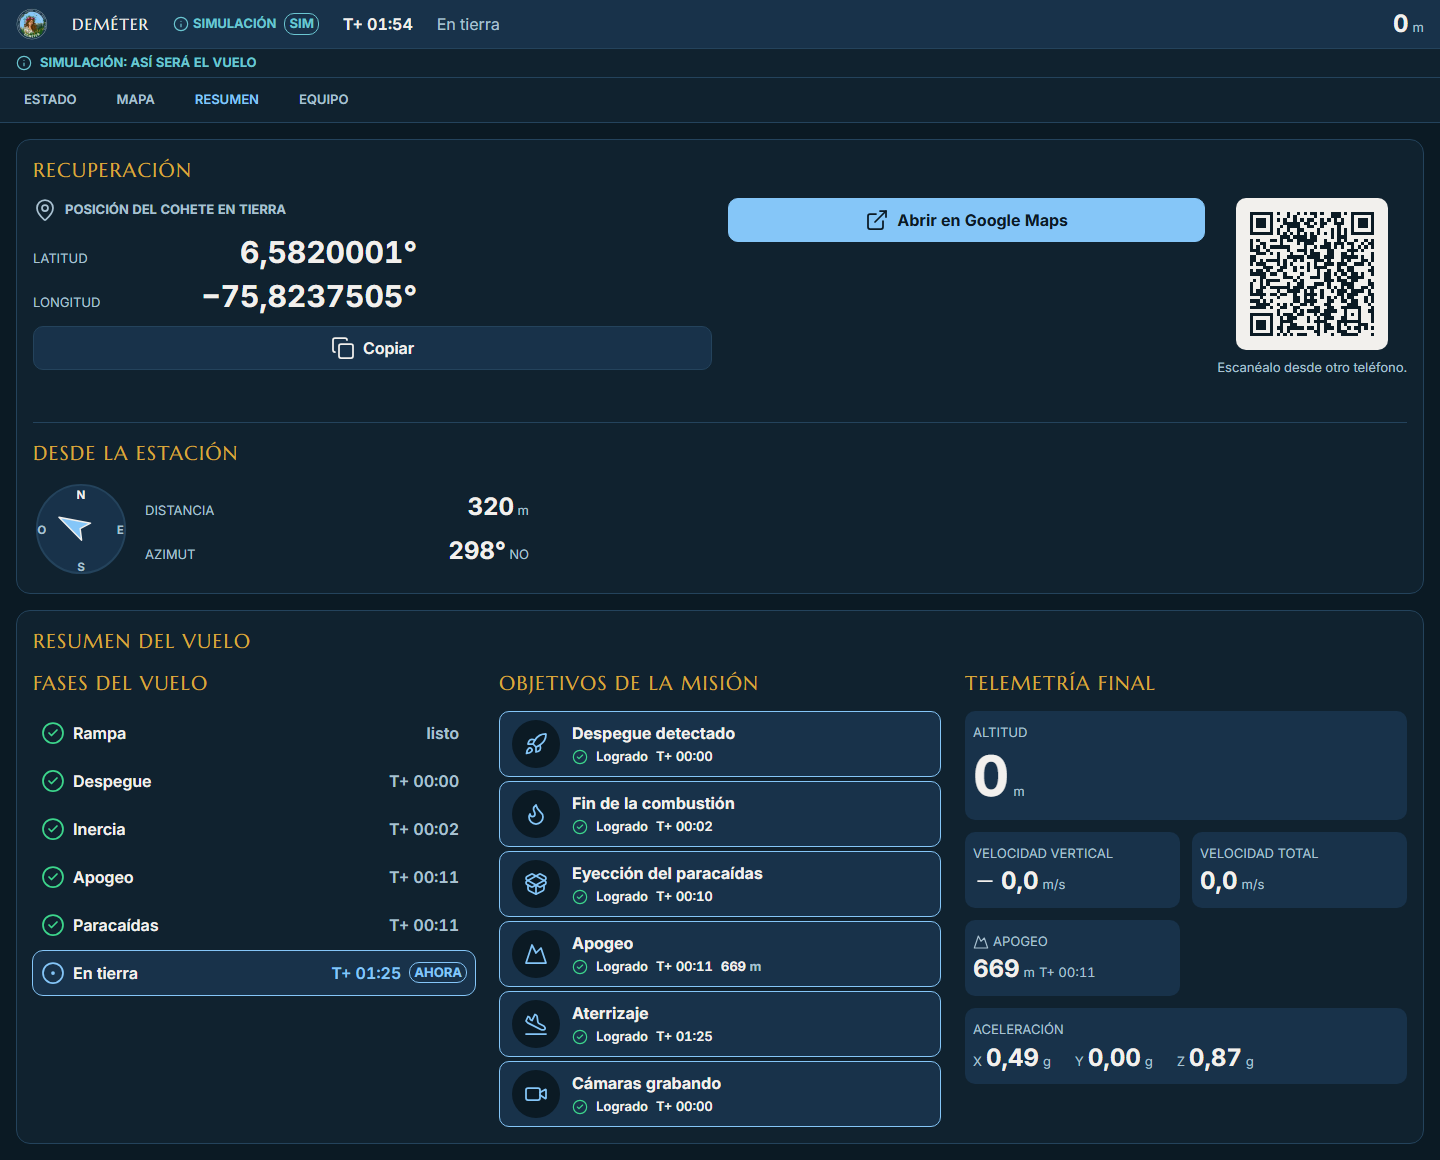
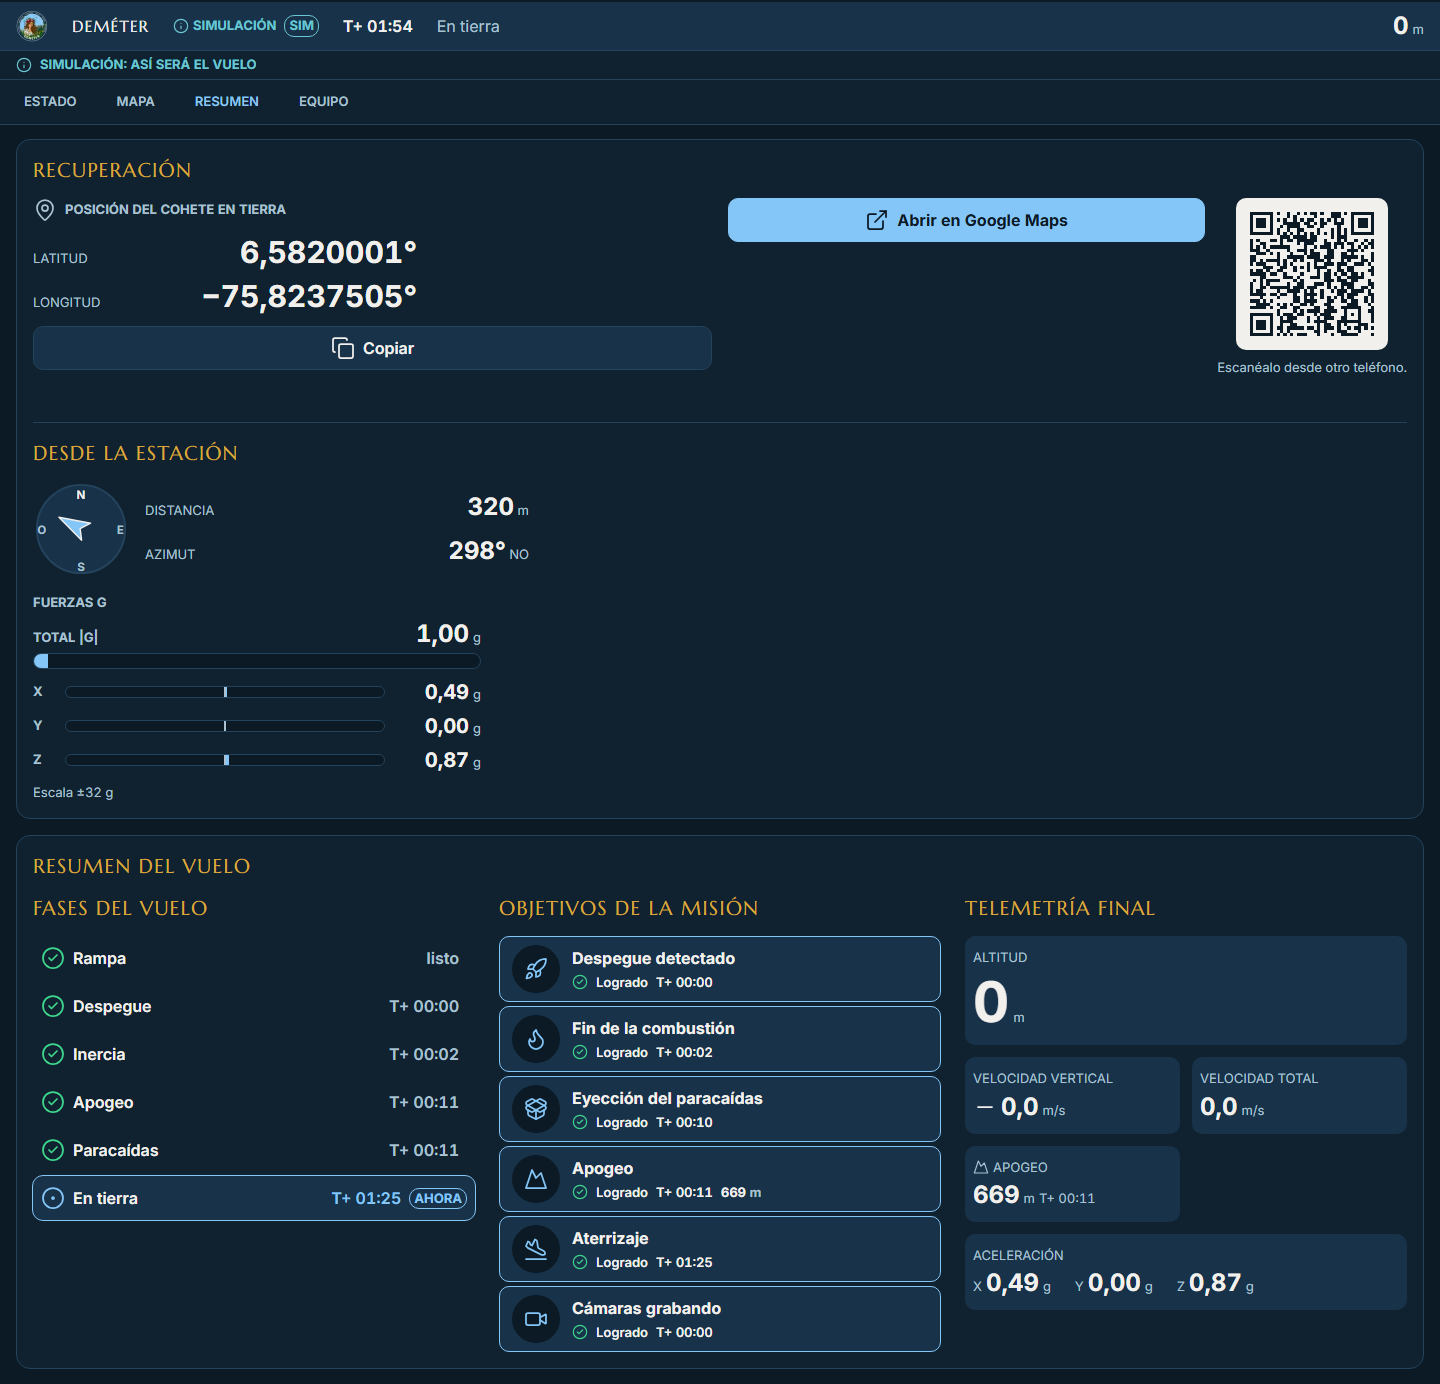
test(web): probar las fuerzas g y regenerar las capturas de T-674
La spec de capturas agrega las pruebas de las fuerzas g (sin dato, valores,
posición de la barra, dato viejo, fuera de escala y celular sin desborde), y
espera a llegar arriba antes de medir las capturas largas (el scroll es suave).
Se regeneran las 14 capturas y se agregan demeter-portatil-estacion-g.png y
demeter-celular-estacion-g.png.

Refs: T-674

Changed region(s): [[0.0, 0.0, 1.0, 0.9931], [0.5, 0.1241, 0.9688, 0.3414]]

diff --git a/gui/web/e2e/estado_en_inicio.spec.ts b/gui/web/e2e/estado_en_inicio.spec.ts
@@ -81,6 +81,8 @@ async function capturarHastaResumen(page: Page, ruta: string) {
     const nav = document.querySelector<HTMLElement>(".navegacion");
     if (nav && getComputedStyle(nav).position === "fixed") nav.style.visibility = "hidden";
   });
+  // El desplazamiento es suave (html { scroll-behavior: smooth }): hay que esperar a llegar arriba.
+  await page.waitForFunction(() => window.scrollY === 0);
   const resumen = await caja(page, "#resumen");
   await page.screenshot({
     path: ruta,
@@ -295,6 +297,82 @@ for (const mision of MISIONES) {
     });
   });
 }
+
+/** Escenario nominal en BOOST: la aceleración pasa de 8 g, para ver las barras de fuerzas g. */
+const T_BOOST_MS = 19_200;
+
+test.describe("fuerzas g en 'Desde la estación' (ajuste de T-674)", () => {
+  const g = (page: Page) => page.locator("#recuperacion .fuerzas-g");
+
+  test("portátil: tres barras con su valor, la magnitud y la escala", async ({ page }) => {
+    await page.setViewportSize({ width: 1440, height: 900 });
+    const errores = vigilarErrores(page);
+    await page.goto(`${DEV}/demeter/?sin_cliente`);
+    // Sin datos: "sin dato" en cada eje y en la magnitud, y ninguna barra rellena.
+    await expect(g(page).locator("[data-g='x']")).toContainText("sin dato");
+    await expect(g(page).locator("[data-g='total']")).toContainText("sin dato");
+    await expect(g(page).locator(".g-relleno")).toHaveCount(0);
+
+    await alimentar(page, snapshotDe("demeter", "nominal", T_BOOST_MS));
+    await expect(g(page).locator("[data-g='x'] .g-num")).toHaveText(/^\d,\d\d$/);
+    await expect(g(page).locator("[data-g='y'] .g-num")).toHaveText("0,00");
+    await expect(g(page).locator("[data-g='total'] .g-num")).toHaveText(/^\d,\d\d$/);
+    await expect(g(page).locator(".g-escala")).toContainText("Escala ±32 g");
+    await expect(g(page)).toHaveAttribute("data-satura", "no");
+    // La barra de X (positiva) arranca en el centro y llega a la derecha; sin pisar el lado negativo.
+    const pista = await caja(page, "[data-g='x'] .g-pista");
+    const relleno = await caja(page, "[data-g='x'] .g-relleno");
+    expect(relleno.x).toBeGreaterThanOrEqual(pista.x + pista.width / 2 - 2);
+    expect(relleno.x + relleno.width).toBeLessThanOrEqual(pista.x + pista.width);
+    expect(await sinDesborde(page)).toBe(true);
+    expect(errores).toEqual([]);
+
+    // Dato viejo: el mismo gris y la antigüedad que la telemetría.
+    await alimentar(page, snapshotDe("demeter", "nominal", T_BOOST_MS), "conectado", 3000);
+    await expect(g(page)).toHaveAttribute("data-viejo", "si");
+    await expect(g(page).locator(".telemetria-edad")).toContainText("Último dato hace 3 s");
+    await alimentar(page, snapshotDe("demeter", "nominal", T_BOOST_MS));
+
+    // La captura deja "Desde la estación" entero: la brújula y las fuerzas g.
+    await page.evaluate((cabecera) => {
+      const r = document.querySelector("#recuperacion .recup-vector")?.getBoundingClientRect();
+      if (r) window.scrollBy(0, r.top - cabecera - 80);
+    }, ALTO_CABECERA_PX);
+    await page.waitForTimeout(500);
+    await page.screenshot({ path: `${CAPTURAS}/demeter-portatil-estacion-g.png` });
+  });
+
+  test("celular: cabe sin desborde", async ({ page }) => {
+    await page.setViewportSize({ width: 390, height: 844 });
+    const errores = vigilarErrores(page);
+    await abrir(page, "demeter", T_BOOST_MS);
+    await expect(g(page).locator("[data-g='x'] .g-num")).toHaveText(/^\d,\d\d$/);
+    expect(await sinDesborde(page)).toBe(true);
+    const caja390 = await caja(page, "#recuperacion .fuerzas-g");
+    expect(caja390.x + caja390.width).toBeLessThanOrEqual(391);
+    await page.evaluate((cabecera) => {
+      const r = document.querySelector("#recuperacion .fuerzas-g")?.getBoundingClientRect();
+      if (r) window.scrollBy(0, r.top - cabecera - 170);
+    }, ALTO_CABECERA_PX);
+    await page.waitForTimeout(500);
+    await page.screenshot({ path: `${CAPTURAS}/demeter-celular-estacion-g.png` });
+    expect(errores).toEqual([]);
+  });
+
+  test("fuera de escala: la barra queda en el borde y lo dice", async ({ page }) => {
+    await page.setViewportSize({ width: 1440, height: 900 });
+    await page.goto(`${DEV}/demeter/?sin_cliente`);
+    const snap = snapshotDe("demeter", "nominal", T_BOOST_MS);
+    if (!snap.estado) throw new Error("el escenario no trae estado");
+    snap.estado = { ...snap.estado, acc_g: { x: -40, y: 0, z: 0 } };
+    await alimentar(page, snap);
+    await expect(g(page)).toHaveAttribute("data-satura", "si");
+    await expect(g(page).locator(".g-satura")).toHaveText(/fuera de escala/);
+    const pista = await caja(page, "[data-g='x'] .g-pista");
+    const relleno = await caja(page, "[data-g='x'] .g-relleno");
+    expect(Math.abs(relleno.x - (pista.x + 1))).toBeLessThan(3);
+  });
+});
 
 test("si el mapa no carga, la telemetría sigue visible dentro del marco", async ({ page }) => {
   await page.setViewportSize({ width: 1440, height: 900 });
